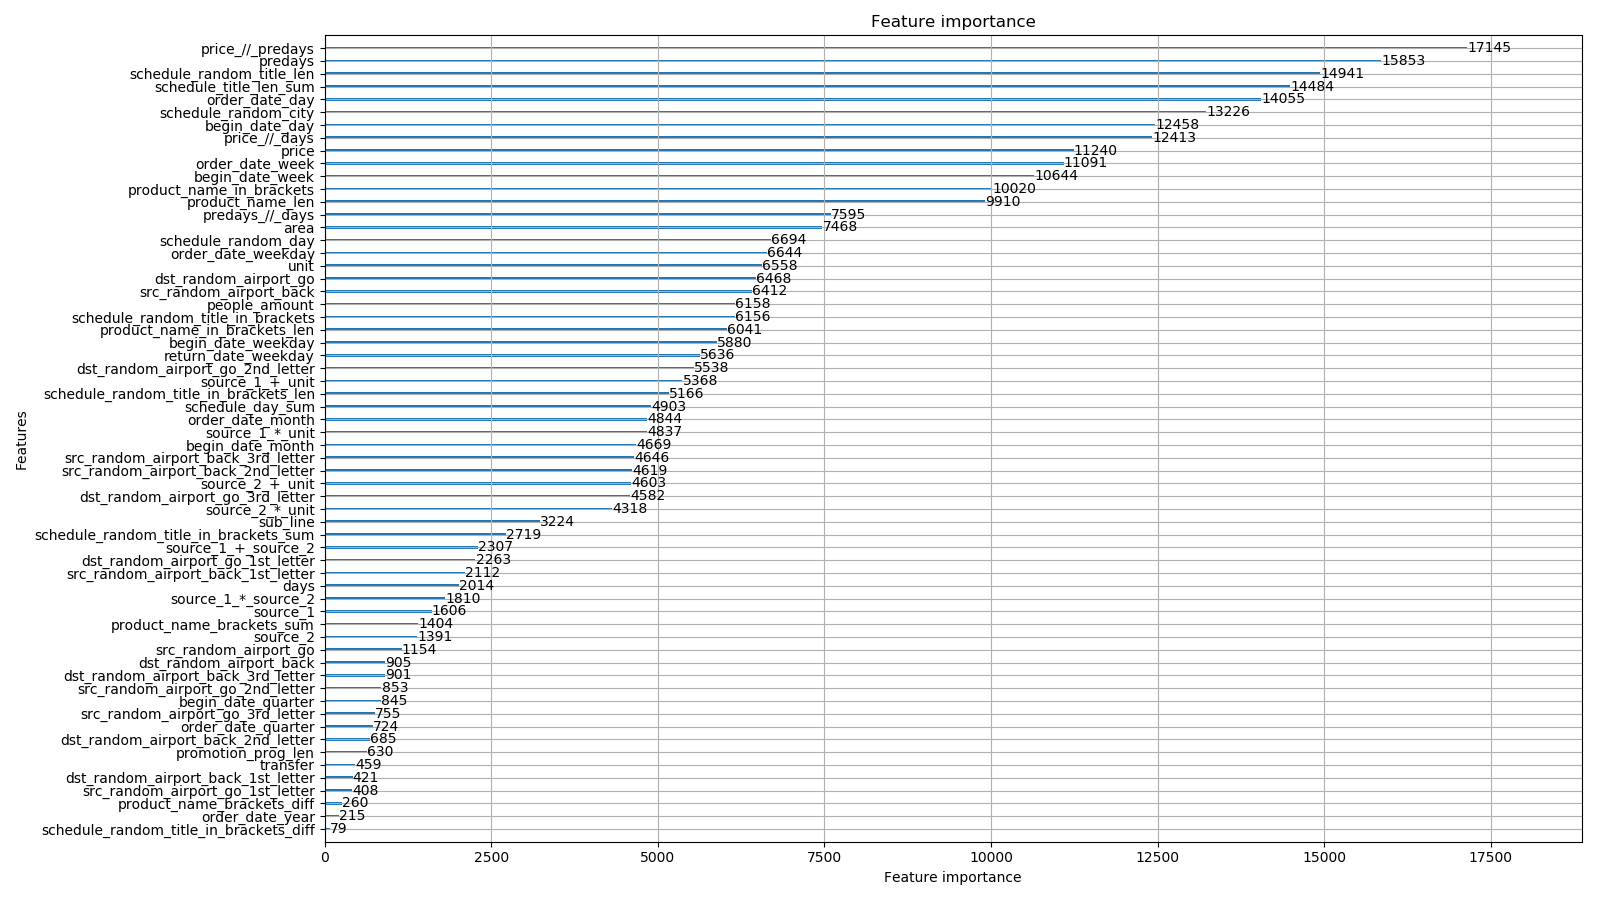
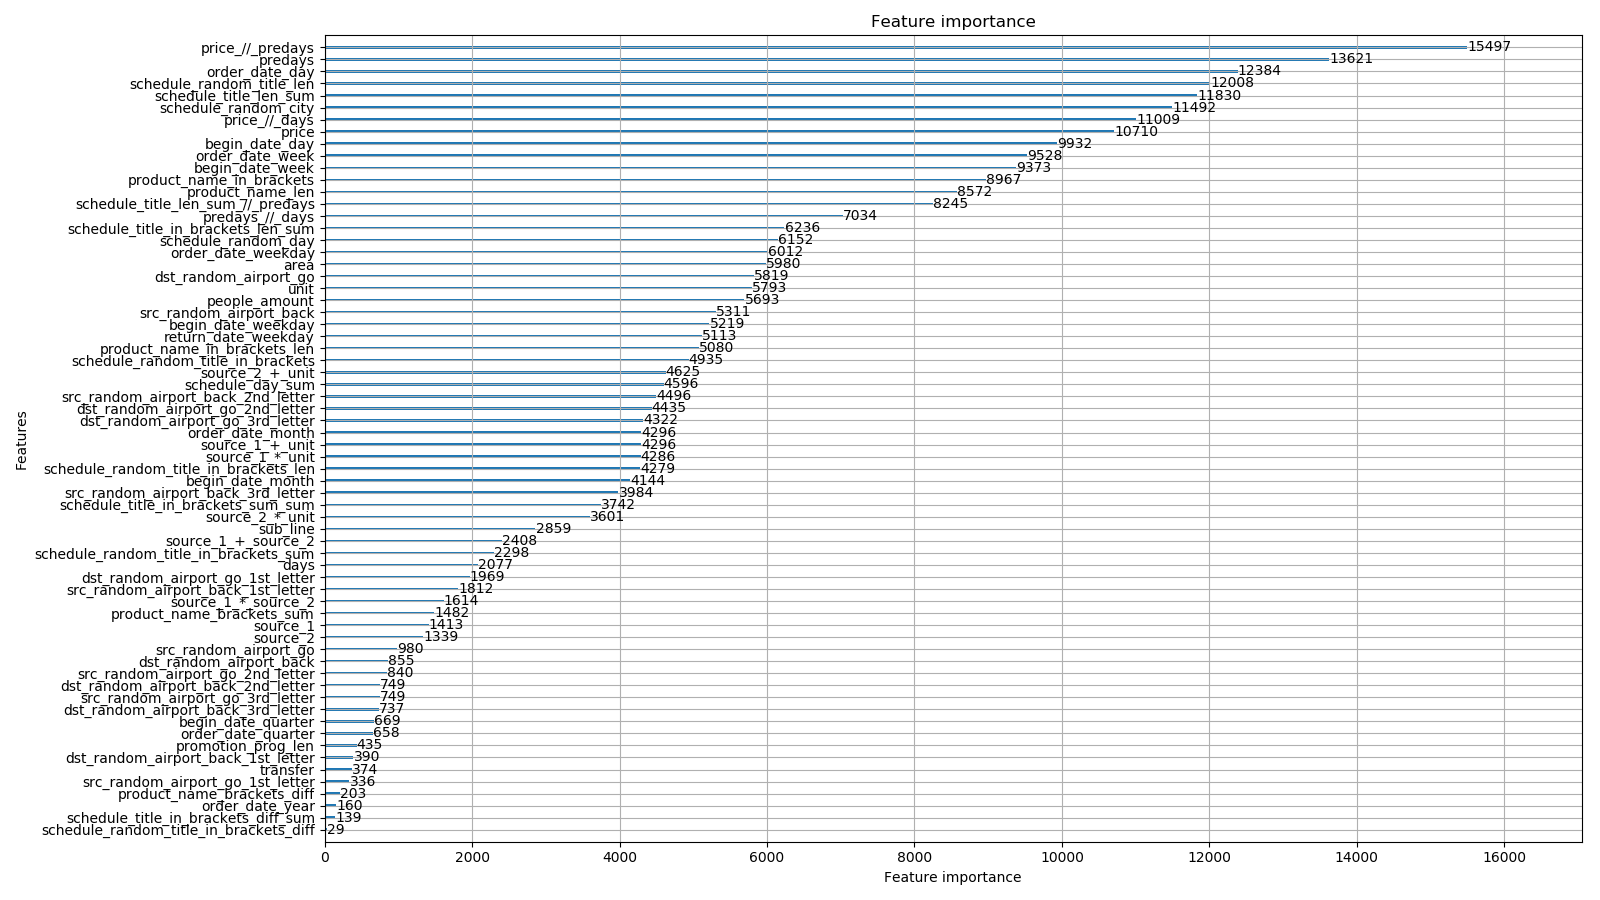
no message

Changed region(s): [[0.0312, 0.0311, 1.0, 0.9644]]

diff --git a/Travel order forecast/data_preprocessing.py b/Travel order forecast/data_preprocessing.py
@@ -57,8 +57,13 @@ df_group = pd.merge(df_group, df_day_schedule_random[
 
 df_day_schedule_sum = df_day_schedule.groupby('group_id').sum().reset_index()
 df_day_schedule_sum = df_day_schedule_sum.rename(
-    columns={'day': 'schedule_day_sum', 'schedule_title_len': 'schedule_title_len_sum'})
-df_group = pd.merge(df_group, df_day_schedule_sum[['group_id', 'schedule_day_sum', 'schedule_title_len_sum']], 'left')
+    columns={'day': 'schedule_day_sum', 'schedule_title_len': 'schedule_title_len_sum',
+             'schedule_title_in_brackets_len': 'schedule_title_in_brackets_len_sum',
+             'schedule_title_in_brackets_sum': 'schedule_title_in_brackets_sum_sum',
+             'schedule_title_in_brackets_diff': 'schedule_title_in_brackets_diff_sum'})
+df_group = pd.merge(df_group, df_day_schedule_sum[
+    ['group_id', 'schedule_day_sum', 'schedule_title_len_sum', 'schedule_title_in_brackets_len_sum',
+     'schedule_title_in_brackets_sum_sum', 'schedule_title_in_brackets_diff_sum']], 'left')
 
 df_airport_go = df_airline[['group_id', 'src_airport', 'dst_airport']][df_airline['go_back'] == '去程']
 df_random_airport_go = df_airport_go.groupby('group_id').agg(np.random.choice).reset_index()
@@ -115,6 +120,8 @@ df_order['begin_date_quarter'] = df_order['begin_date'].dt.quarter
 df_order['price // predays'] = df_order['price'] // df_order['predays']
 df_order['predays // days'] = df_order['predays'] // df_order['days']
 df_order['price // days'] = df_order['price'] // df_order['days']
+
+df_order['schedule_title_len_sum // predays'] = df_order['schedule_title_len_sum'] // df_order['predays']
 
 print(df_order.describe())
 

diff --git a/Travel order forecast/lightgbm_classifier.py b/Travel order forecast/lightgbm_classifier.py
@@ -57,6 +57,9 @@ features = ['source_1',
             'schedule_random_city',
             'schedule_day_sum',
             'schedule_title_len_sum',
+            'schedule_title_in_brackets_len_sum',
+            'schedule_title_in_brackets_sum_sum',
+            'schedule_title_in_brackets_diff_sum',
             'src_random_airport_go',
             'dst_random_airport_go',
             'src_random_airport_go_1st_letter',
@@ -96,12 +99,14 @@ features = ['source_1',
             'begin_date_quarter',
             'price // predays',
             'predays // days',
-            'price // days']
+            'price // days',
+            'schedule_title_len_sum // predays']
 
 df_test = pd.merge(df_test, df_order, 'left')
 test_x = df_test[features]
 
 df_train = pd.merge(df_train, df_order, 'left')
+
 df_train_deal = df_train[df_train['deal_or_not'] == 1]
 df_train_not_deal = df_train[df_train['deal_or_not'] == 0]
 
